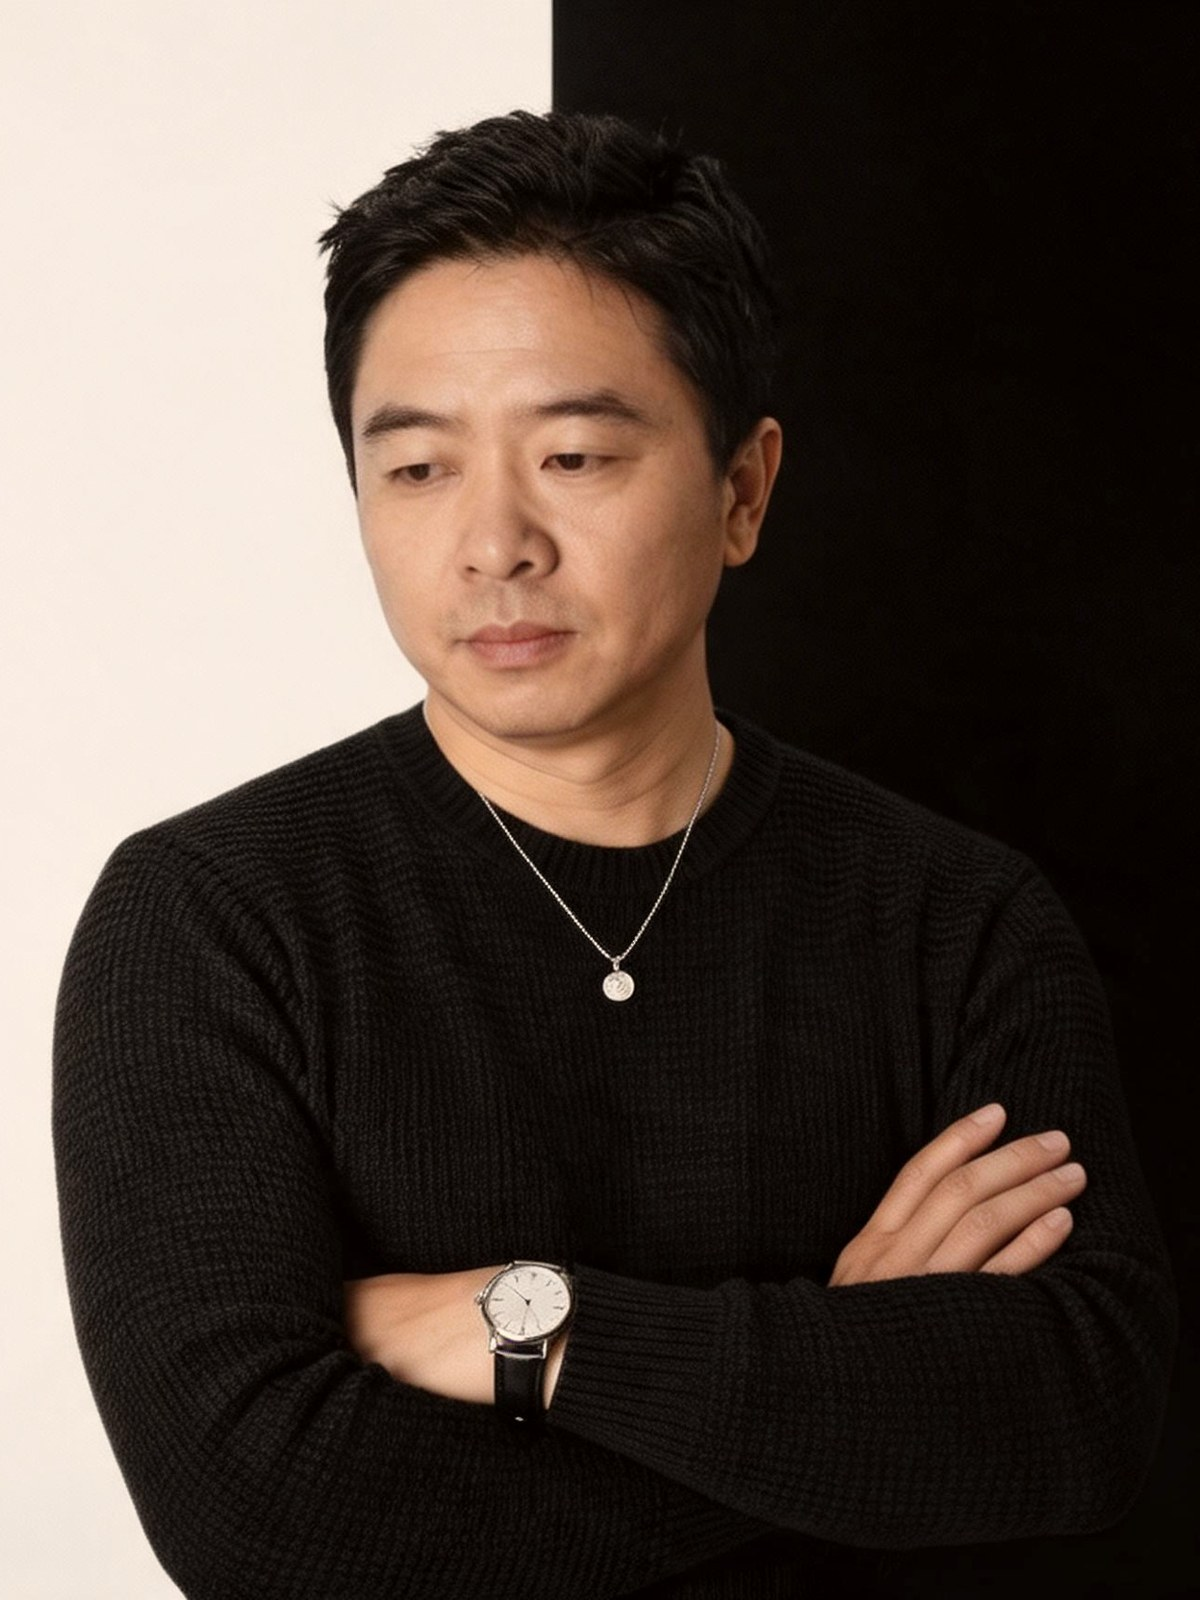
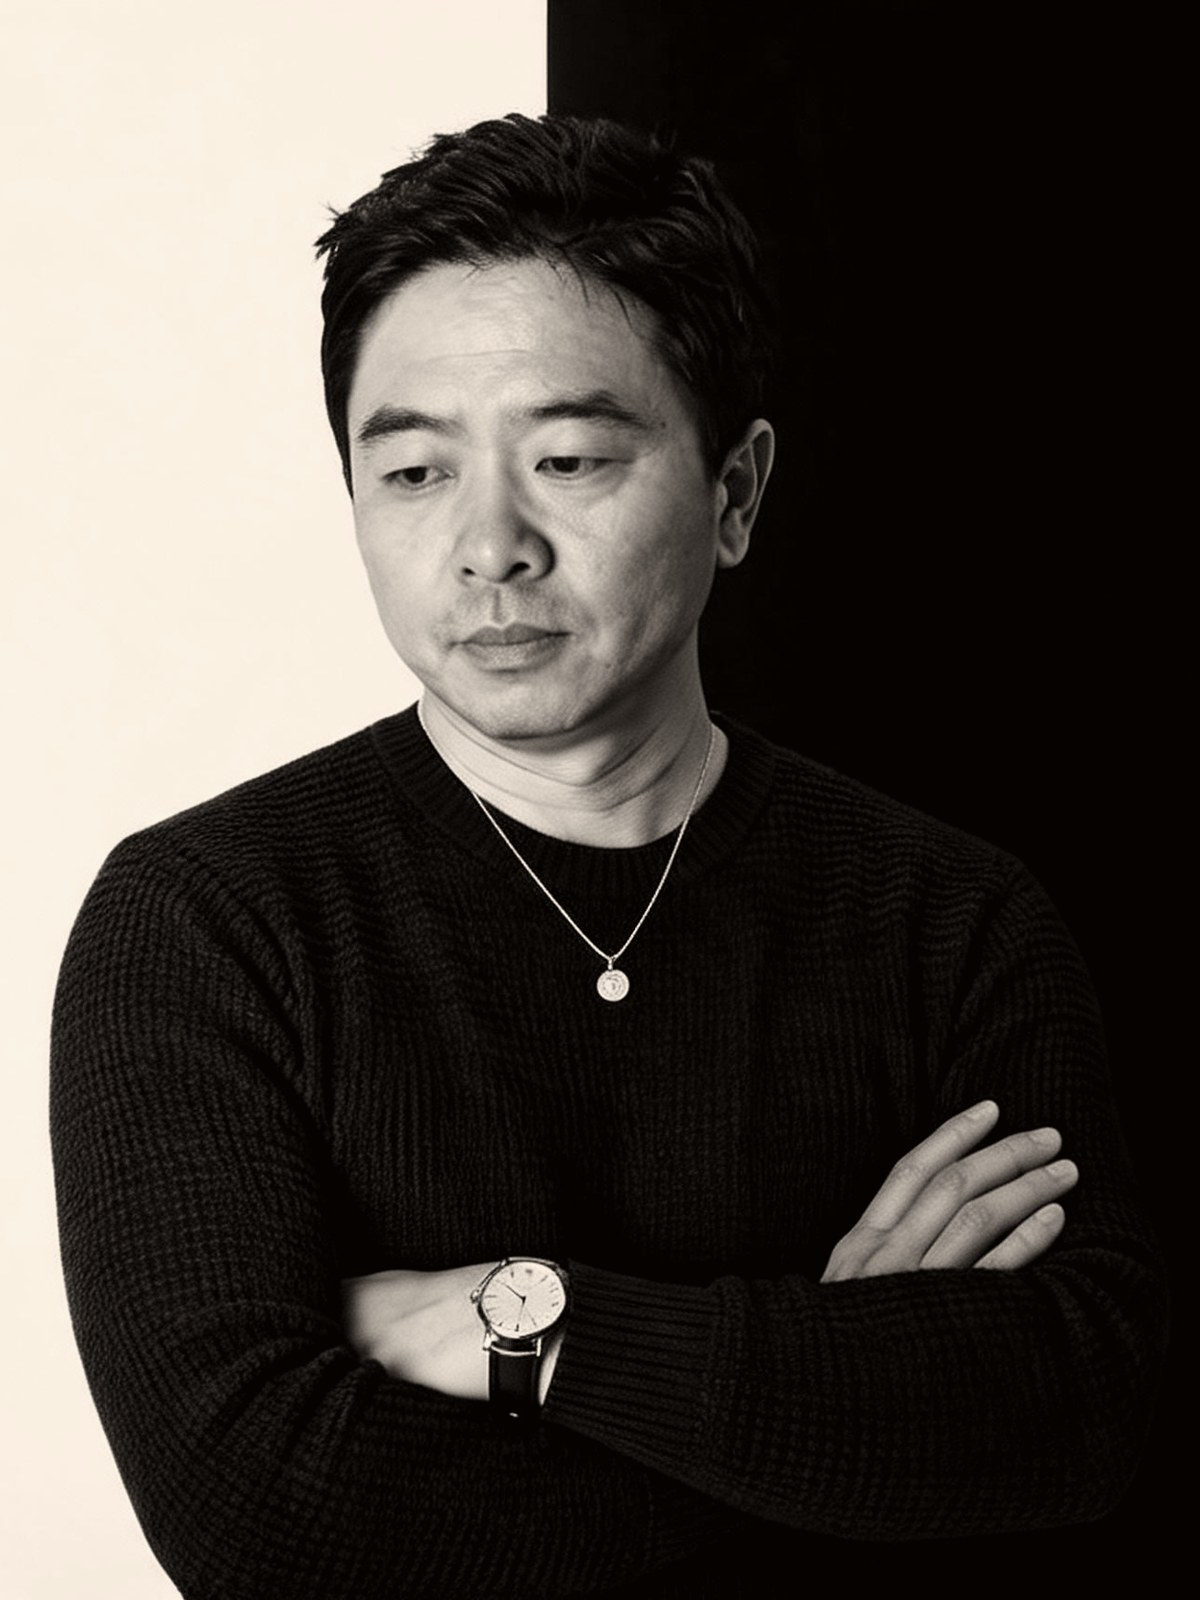
Warm-mono portrait, enable analytics

diff --git a/commission.html b/commission.html
@@ -239,7 +239,6 @@ select.lang-toggle option{background:#1B140D;color:var(--text)}
   onScroll();
 })();
 </script>
-<!-- TODO: replace YOUR-CODE with the real GoatCounter site code -->
-<script data-goatcounter="https://YOUR-CODE.goatcounter.com/count" async src="//gc.zgo.at/count.js"></script>
+<script data-goatcounter="https://sgai.goatcounter.com/count" async src="//gc.zgo.at/count.js"></script>
 </body>
 </html>

diff --git a/films/abstract.html b/films/abstract.html
@@ -265,7 +265,6 @@ document.querySelectorAll('.reel figure').forEach(f=>{
   f.addEventListener('touchstart',()=>{f.classList.contains('playing')?stop():play();},{passive:true});
 });
 </script>
-<!-- TODO: replace YOUR-CODE with the real GoatCounter site code -->
-<script data-goatcounter="https://YOUR-CODE.goatcounter.com/count" async src="//gc.zgo.at/count.js"></script>
+<script data-goatcounter="https://sgai.goatcounter.com/count" async src="//gc.zgo.at/count.js"></script>
 </body>
 </html>

diff --git a/films/dialogue.html b/films/dialogue.html
@@ -265,7 +265,6 @@ document.querySelectorAll('.reel figure').forEach(f=>{
   f.addEventListener('touchstart',()=>{f.classList.contains('playing')?stop():play();},{passive:true});
 });
 </script>
-<!-- TODO: replace YOUR-CODE with the real GoatCounter site code -->
-<script data-goatcounter="https://YOUR-CODE.goatcounter.com/count" async src="//gc.zgo.at/count.js"></script>
+<script data-goatcounter="https://sgai.goatcounter.com/count" async src="//gc.zgo.at/count.js"></script>
 </body>
 </html>

diff --git a/films/flow.html b/films/flow.html
@@ -265,7 +265,6 @@ document.querySelectorAll('.reel figure').forEach(f=>{
   f.addEventListener('touchstart',()=>{f.classList.contains('playing')?stop():play();},{passive:true});
 });
 </script>
-<!-- TODO: replace YOUR-CODE with the real GoatCounter site code -->
-<script data-goatcounter="https://YOUR-CODE.goatcounter.com/count" async src="//gc.zgo.at/count.js"></script>
+<script data-goatcounter="https://sgai.goatcounter.com/count" async src="//gc.zgo.at/count.js"></script>
 </body>
 </html>

diff --git a/films/nebula.html b/films/nebula.html
@@ -265,7 +265,6 @@ document.querySelectorAll('.reel figure').forEach(f=>{
   f.addEventListener('touchstart',()=>{f.classList.contains('playing')?stop():play();},{passive:true});
 });
 </script>
-<!-- TODO: replace YOUR-CODE with the real GoatCounter site code -->
-<script data-goatcounter="https://YOUR-CODE.goatcounter.com/count" async src="//gc.zgo.at/count.js"></script>
+<script data-goatcounter="https://sgai.goatcounter.com/count" async src="//gc.zgo.at/count.js"></script>
 </body>
 </html>

diff --git a/films/warmth.html b/films/warmth.html
@@ -265,7 +265,6 @@ document.querySelectorAll('.reel figure').forEach(f=>{
   f.addEventListener('touchstart',()=>{f.classList.contains('playing')?stop():play();},{passive:true});
 });
 </script>
-<!-- TODO: replace YOUR-CODE with the real GoatCounter site code -->
-<script data-goatcounter="https://YOUR-CODE.goatcounter.com/count" async src="//gc.zgo.at/count.js"></script>
+<script data-goatcounter="https://sgai.goatcounter.com/count" async src="//gc.zgo.at/count.js"></script>
 </body>
 </html>

diff --git a/index.html b/index.html
@@ -263,7 +263,6 @@
   </footer>
 
   <script src="app.js"></script>
-<!-- TODO: replace YOUR-CODE with the real GoatCounter site code -->
-<script data-goatcounter="https://YOUR-CODE.goatcounter.com/count" async src="//gc.zgo.at/count.js"></script>
+<script data-goatcounter="https://sgai.goatcounter.com/count" async src="//gc.zgo.at/count.js"></script>
 </body>
 </html>